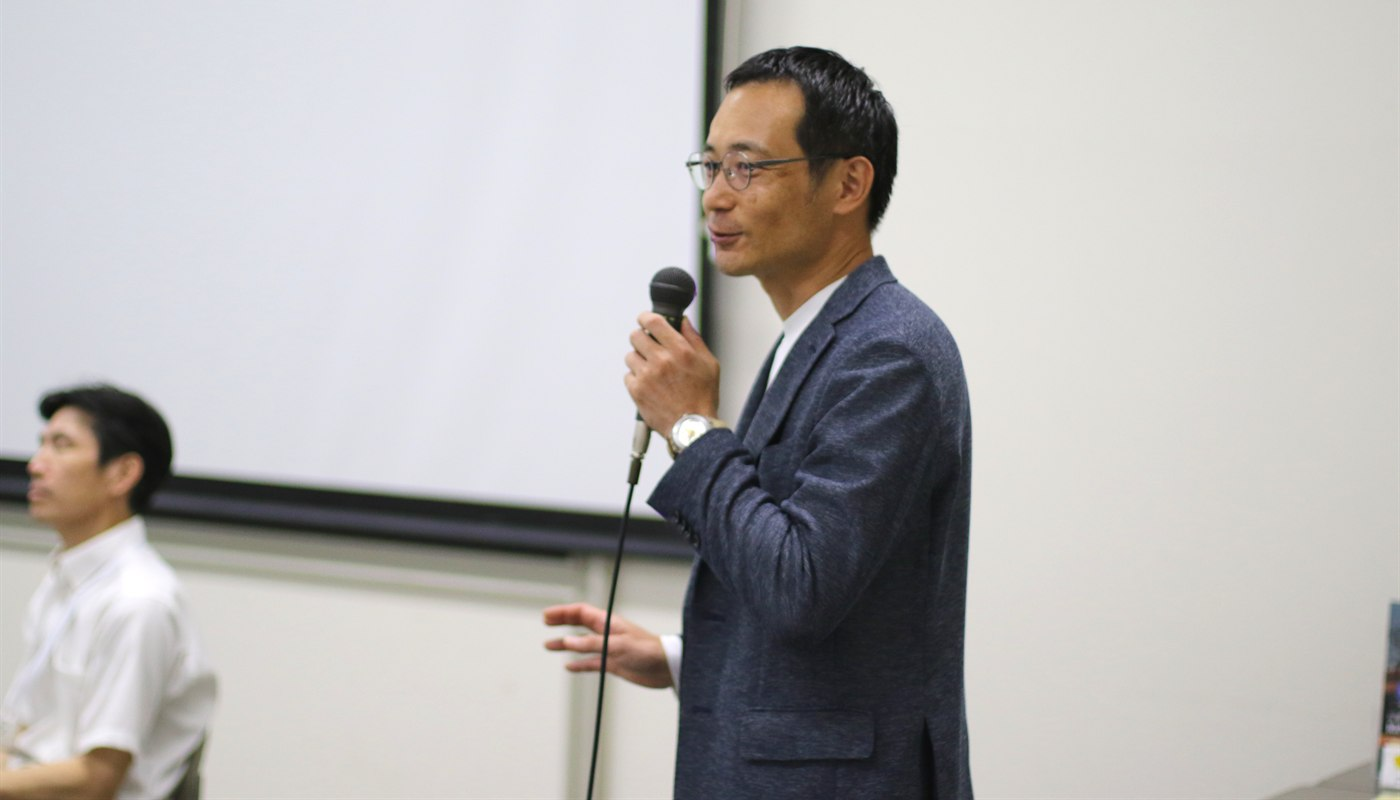
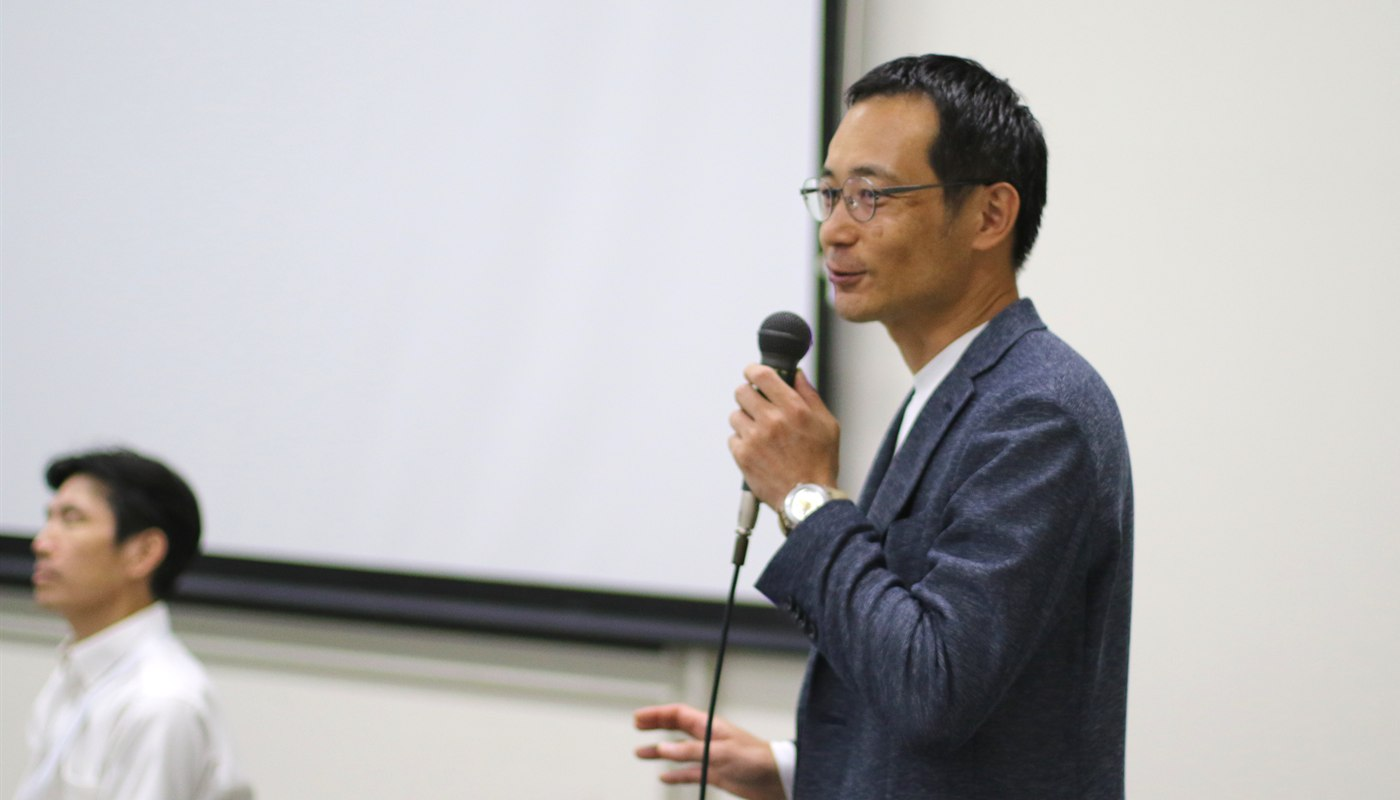
パネル写真を横一列のまま幅を拡大（本文幅より広く）／粥川氏は左1/7・森田氏は右1/7を横トリミング

diff --git a/events/social-welfare-seminar-2026-08/panel.html b/events/social-welfare-seminar-2026-08/panel.html
@@ -25,7 +25,7 @@
         .program-tag { display: inline-block; padding: 4px 14px; border-radius: 6px; font-size: 13px; font-weight: 700; background: var(--navy); color: var(--white); margin-bottom: 14px; }
         .article-body h1 { font-size: 23px; font-weight: 900; color: var(--navy); line-height: 1.55; margin-bottom: 10px; }
         .speaker-line { font-size: 15px; font-weight: 700; color: var(--text-gray); margin-bottom: 24px; }
-        .top-photos { display: grid; grid-template-columns: repeat(4, 1fr); gap: 12px; margin: 8px 0 32px; }
+        .top-photos { display: grid; grid-template-columns: repeat(4, 1fr); gap: 12px; margin: 8px 0 32px; width: min(1120px, 94vw); margin-left: 50%; transform: translateX(-50%); }
         .top-photos figure { margin: 0; }
         .top-photos img { width: 100%; aspect-ratio: 7 / 4; object-fit: cover; border-radius: 10px; display: block; box-shadow: 0 2px 10px rgba(0,0,0,0.08); }
         @media (max-width: 600px) { .top-photos { gap: 8px; } }
